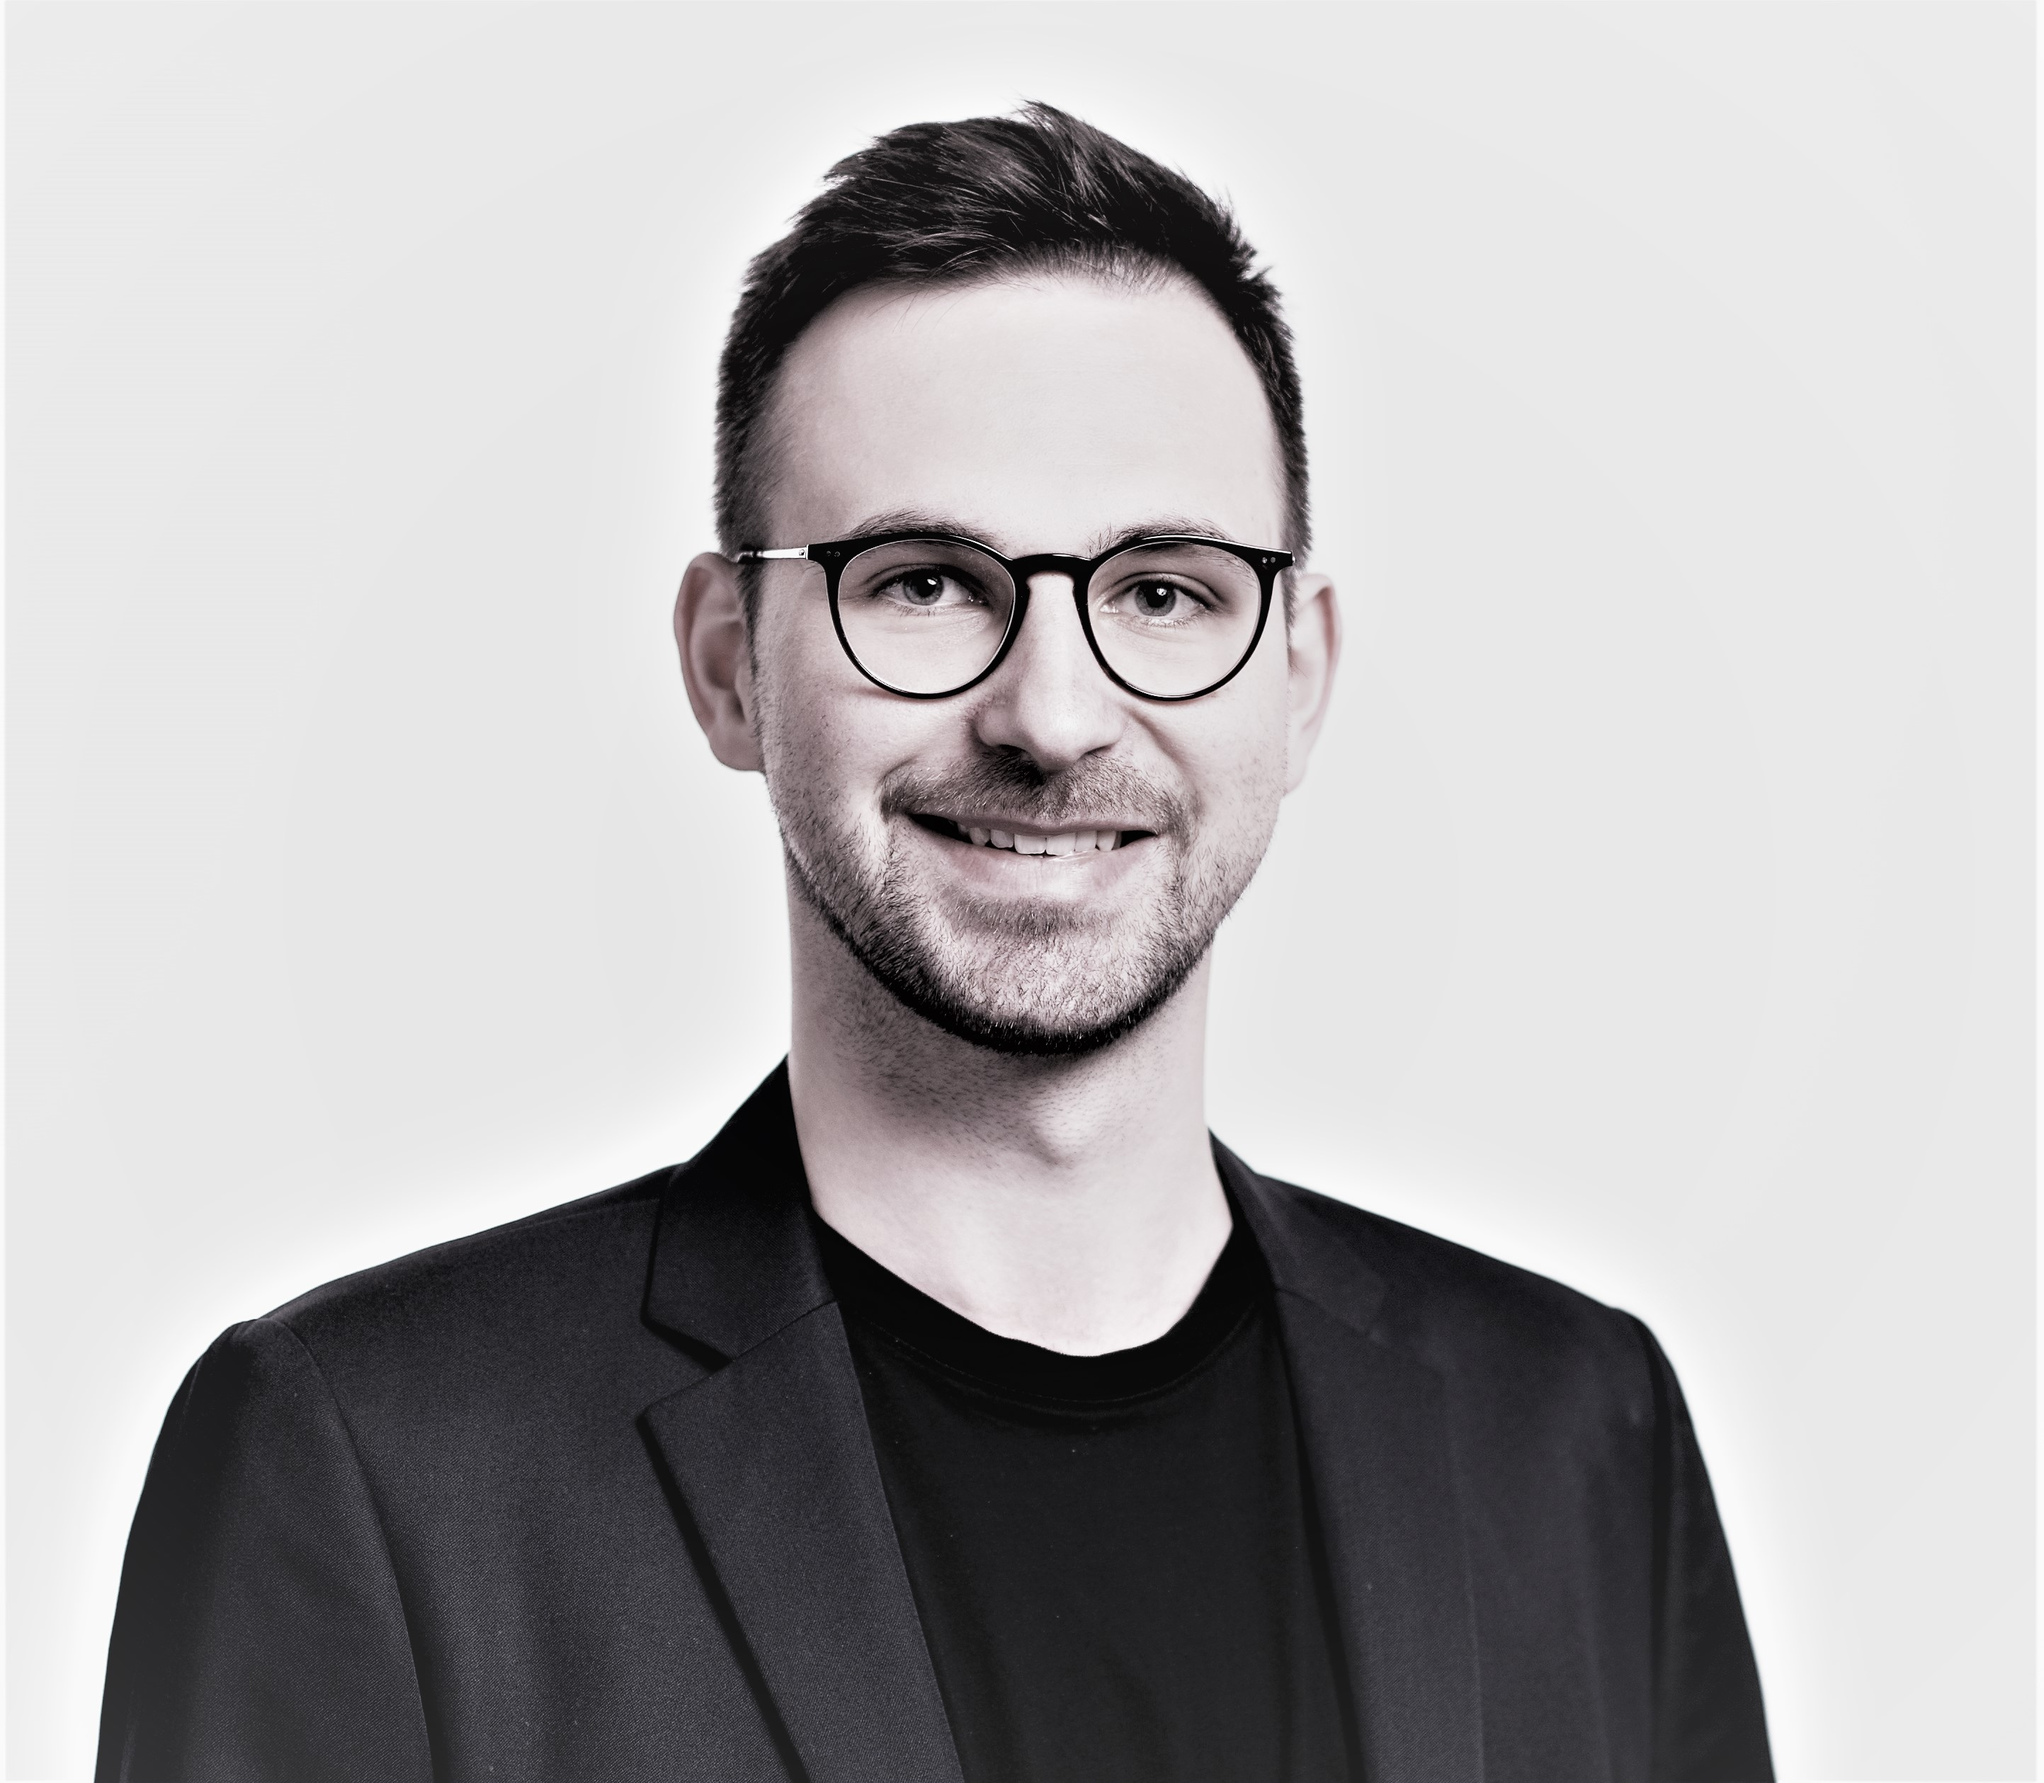
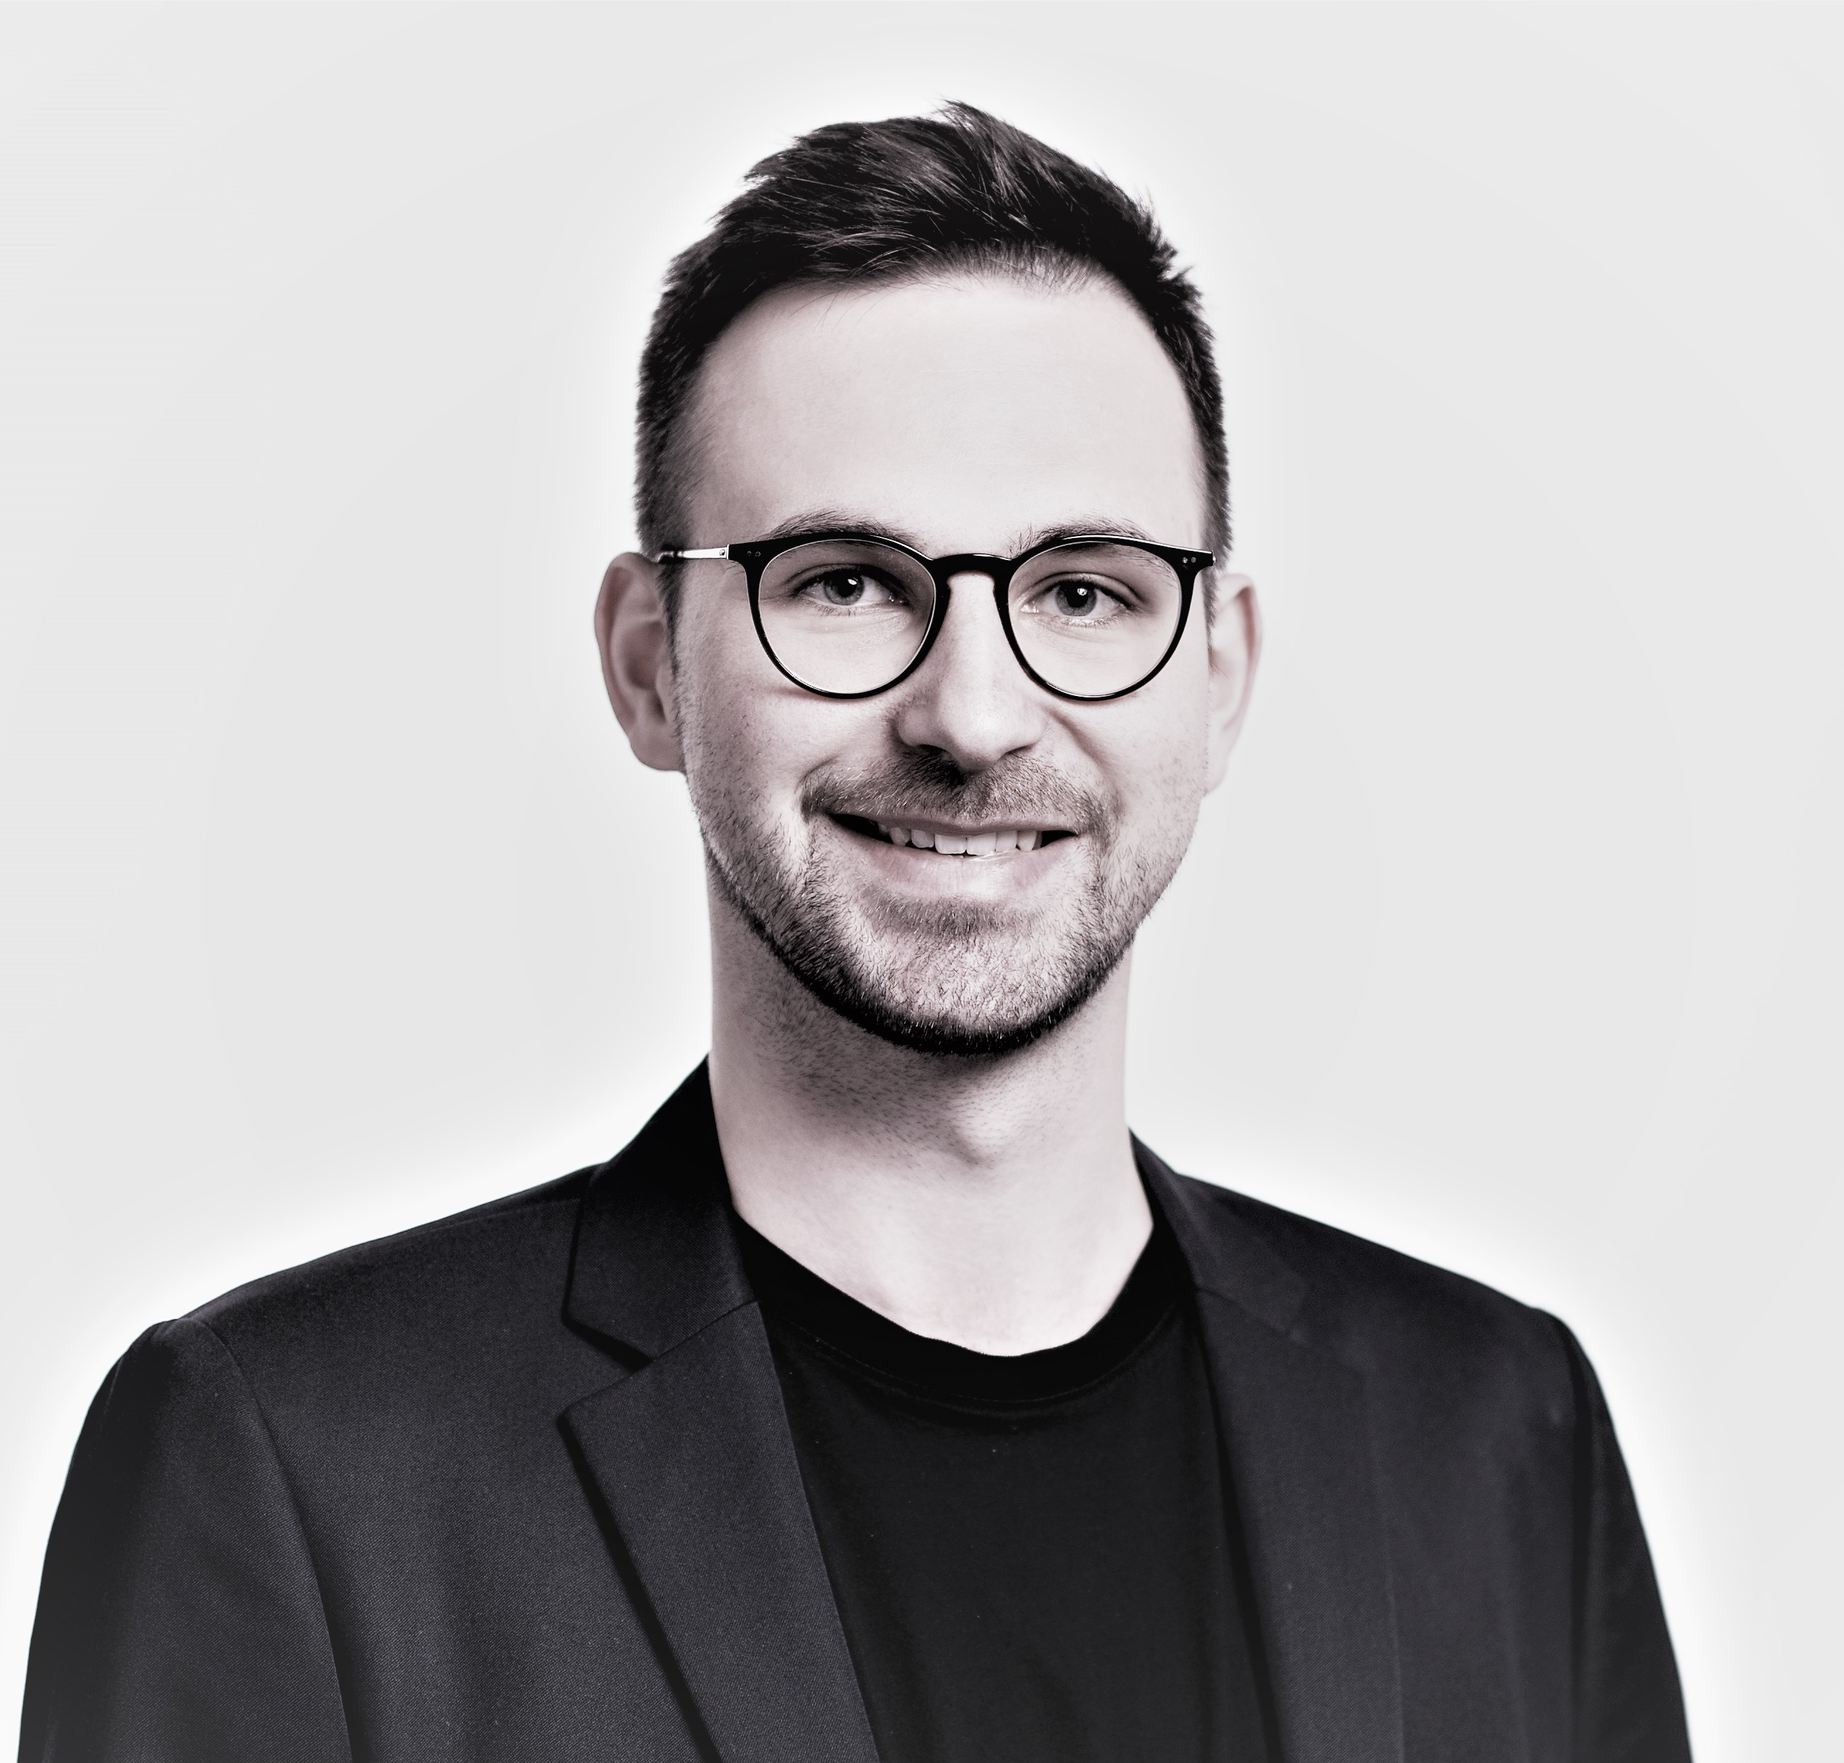
re-design

diff --git a/assets/css/style.css b/assets/css/style.css
@@ -1,0 +1,261 @@
+/*==================== GOOGLE FONTS ====================*/
+/*@import url("https://fonts.googleapis.com/css2?family=Poppins:wght@400;500;600&display=swap");*/
+
+/*==================== VARIABLES CSS ====================*/
+:root {
+    --header-height: 3rem;
+
+    /*========== Colors ==========*/
+    /* Change favorite color */
+    --hue-color: 250; /*Purple 250 - Green 142 - Blue 230 - Pink 340*/
+
+    /* HSL color mode */
+    --first-color: hsl(var(--hue-color), 69%, 61%);
+    --first-color-second: hsl(var(--hue-color), 69%, 61%);
+    --first-color-alt: hsl(var(--hue-color), 57%, 53%);
+    --first-color-lighter: hsl(var(--hue-color), 92%, 85%);
+    --title-color: hsl(var(--hue-color), 8%, 15%);
+    --text-color: hsl(var(--hue-color), 8%, 45%);
+    --text-color-light: hsl(var(--hue-color), 8%, 65%);
+    --input-color: hsl(var(--hue-color), 70%, 96%);
+    --body-color: hsl(var(--hue-color), 60%, 99%);
+    --container-color: #fff;
+    --scroll-bar-color: hsl(var(--hue-color), 12%, 90%);
+    --scroll-thumb-color: hsl(var(--hue-color), 12%, 80%);
+
+    /*========== Font and typography ==========*/
+    --body-font: 'Poppins', sans-serif;
+
+    /* .5rem = 8px, 1rem = 16px, 1.5rem = 24px ... */
+    --big-font-size: 2rem;
+    --h1-font-size: 1.5rem;
+    --h2-font-size: 1.25rem;
+    --h3-font-size: 1.125rem;
+    --normal-font-size: .938rem;
+    --small-font-size: .813rem;
+    --smaller-font-size: .75rem;
+
+    /*========== Font weight ==========*/
+    --font-medium: 500;
+    --font-semi-bold: 600;
+
+    /*========== Margenes Bottom ==========*/
+    /* .25rem = 4px, .5rem = 8px, .75rem = 12px ... */
+    --mb-0-25: .25rem;
+    --mb-0-5: .5rem;
+    --mb-0-75: .75rem;
+    --mb-1: 1rem;
+    --mb-1-5: 1.5rem;
+    --mb-2: 2rem;
+    --mb-2-5: 2.5rem;
+    --mb-3: 3rem;
+
+    /*========== z index ==========*/
+    --z-tooltip: 10;
+    --z-fixed: 100;
+    --z-modal: 1000;
+}
+
+/* Font size for large devices */
+@media screen and (min-width: 968px) {
+    :root {
+        --big-font-size: 3rem;
+        --h1-font-size: 2.25rem;
+        --h2-font-size: 1.5rem;
+        --h3-font-size: 1.25rem;
+        --normal-font-size: 1rem;
+        --small-font-size: .875rem;
+        --smaller-font-size: .813rem;
+    }
+}
+
+/*========== Variables Dark theme ==========*/
+
+
+/*========== Button Dark/Light ==========*/
+
+
+/*==================== BASE ====================*/
+* {
+  box-sizing: border-box;
+  padding: 0;
+  margin: 0;
+}
+
+html {
+  scroll-behavior: smooth;
+}
+.circular_image {
+  width: 250px;
+  height: 250px;
+  border-radius: 60%;
+  overflow: hidden;
+  background-color: rgb(250,250,250);
+	/*rgb(231,231,231);*/
+  /* commented for demo
+  float: left;
+  margin-left: 125px;
+  margin-top: 20px;
+  */
+  
+  /*for demo*/
+  display:inline-block;
+  vertical-align:middle;
+}
+.circular_image img{
+  width:100%;
+}
+
+body {
+  margin: 100px 0 var(--header-height) 0;
+  font-family: var(--body-font);
+  font-size: var(--normal-font-size);
+  background-color: rgb(250,250,250);
+  color: var(--text-color);
+}
+
+h1, h2, h3, h4 {
+  color: var(--title-color);
+  font-weight: var(--font-semi-bold);
+}
+
+ul {
+  list-style: none;
+}
+
+a {
+  text-decoration: none;
+}
+
+img {
+  max-width: 100%;
+  height: auto;
+}
+
+/* unvisited link */
+a:link {
+  color: gray;
+}
+
+/* visited link */
+a:visited {
+  color: blue;
+}
+
+/* mouse over link */
+a:hover {
+  color: rgb(37,229,208);
+}
+
+/* selected link */
+a:active {
+  color: gray;
+}
+
+/*==================== REUSABLE CSS CLASSES ====================*/
+.section {
+  padding: 2rem 0 4rem;
+}
+
+.section__title {
+  font-size: var(--h1-font-size);
+  color: var(--title-color);
+}
+
+.section__subtitle {
+  display: block;
+  font-size: var(--small-font-size);
+  margin-bottom: var(--mb-3);
+}
+
+.section__title, 
+.section__subtitle {
+  text-align: center;
+}
+
+/*==================== LAYOUT ====================*/
+.container {
+  max-width: 768px;
+  margin-left: var(--mb-1-5);
+  margin-right: var(--mb-1-5);
+}
+
+.grid {
+  display: grid;
+  gap: 1.5rem;
+}
+
+.header {
+  width: 100%;
+  position: fixed;
+  bottom: 0;
+  left: 0;
+  z-index: var(--z-fixed);
+  background-color: var(--body-color);
+}
+
+/*==================== NAV ====================*/
+
+
+/* show menu */
+
+
+/* Active link */
+
+
+/* Change background header */
+
+
+/*==================== HOME ====================*/
+
+
+/*==================== BUTTONS ====================*/
+
+
+/*==================== ABOUT ====================*/
+
+
+/*==================== SKILLS ====================*/
+
+
+/*==================== QUALIFICATION ====================*/
+
+
+/*==================== SERVICES ====================*/
+
+
+/* Active Modal */
+
+
+/*==================== PORTFOLIO ====================*/
+
+
+/*==================== PROJECT IN MIND ====================*/
+
+
+/*==================== TESTIMONIAL ====================*/
+
+
+/*==================== CONTACT ME ====================*/
+
+
+/*==================== FOOTER ====================*/
+
+
+/*========== SCROLL UP ==========*/
+
+
+/* Show scroll */
+
+
+/*========== SCROLL BAR ==========*/
+
+
+/*==================== MEDIA QUERIES ====================*/
+/* For small devices */
+
+
+/* For medium devices */
+
+
+/* For large devices */

diff --git a/index.html b/index.html
@@ -7,7 +7,7 @@
     <meta name="viewport" content="width=device-width, initial-scale=1">
 
 <!-- Begin Jekyll SEO tag v2.8.0 -->
-<title>Thomas Baldauf</title>
+<title>Thomas Baldauf</title> 
 <meta name="generator" content="Jekyll v3.9.3" />
 <meta property="og:title" content="Thomas Baldauf" />
 <meta property="og:locale" content="en_US" />
@@ -20,7 +20,7 @@
 {"@context":"https://schema.org","@type":"WebSite","headline":"Thomas Baldauf","name":"Thomas Baldauf","publisher":{"@type":"Organization","logo":{"@type":"ImageObject","url":"https://tbaldauf.github.io/assets/img/profile.jpg"}},"url":"https://fuadlabgit.github.io/"}</script>
 <!-- End Jekyll SEO tag -->
 
-    <link rel="stylesheet" href="/assets/css/style.css?v=9863d178014c2954fc3d5169fd588c250789d674">
+    <link rel="stylesheet" href="assets/css/style.css">
     <!--[if lt IE 9]>
     <script src="https://cdnjs.cloudflare.com/ajax/libs/html5shiv/3.7.3/html5shiv.min.js"></script>
     <![endif]-->
@@ -37,32 +37,26 @@
 
   </head>
   <body>
+  <center>
+  <br/>
     <div class="wrapper">
       <header>
-        <h1><a href="https://github.com/fuadlabgit">Thomas Baldauf</a></h1>
-          <img src="https://github.com/fuadlabgit/aboutme/tree/main/assets/img" alt="Logo" />
-        
+        <h1><a href="https://github.com/fuadlabgit">Thomas Baldauf</a></h1> </br>
+          <div class="circular_image">
+		  <img src="assets/img/profile.jpg" alt="" />
+		  </div>
         <p></p>
-		
         <!-- 
         <p class="view"><a href="https://github.com/fuadlabgit">View My GitHub Profile</a></p>
          -->
 
-        
-
         <p> <a href= "mailto:thomas.baldauf@dlr.de">Send Email</a> </p>
-
-        <p> <b>Links:</b>
-          <br> 
-          <a href="https://www.dlr.de/ve/de/desktopdefault.aspx/tabid-15973/25912_read-42813/sortby-lastname/" target="_blank">DLR Institute of Networked Energy Systems</a>
-          <br>
-          <a href="https://www.linkedin.com/in/thomas-baldauf-194770184/" target="_blank">LinkedIn</a>
-        </p>
-
+<br/><br/>
       </header>
       <section>
+</center>
 
-      <p>
+      <p style="margin-left: 30%; margin-right: 30%;">
   Hello! I am Thomas Baldauf
   <br>
   <br>
@@ -74,8 +68,16 @@
   <br>
   I received my Master's degree in Physics in 2019 and my Bachelor's degree in Physics (Condensed Matter Physics) in 2016, both from Technical University of Munich (TUM).
   <br>
-
   <br>
+  
+
+<br/><p style="margin-left: 20%"> <b >Links:</b><br/>
+          <br> 
+          <a href="https://www.dlr.de/ve/de/desktopdefault.aspx/tabid-15973/25912_read-42813/sortby-lastname/" target="_blank">  - DLR Institute of Networked Energy Systems</a>
+          <br>
+          <a href="https://www.linkedin.com/in/thomas-baldauf-194770184/" target="_blank"> - LinkedIn</a>
+        </p>
+		<br/>
 </p>
 
   </section>
@@ -85,5 +87,7 @@
       </footer> -->
     </div>
     <script src="/assets/js/scale.fix.js"></script>
+	
+	
   </body>
 </html>
